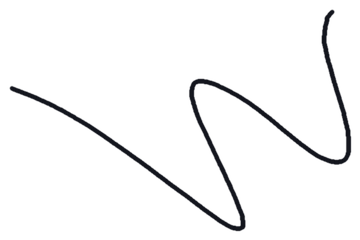
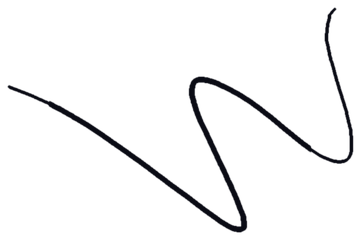
Certificates: smaller centered pen-style signature
Claude-Session: https://claude.ai/code/session_014vxs68XZesF6MG5jL5V9rF

Changed region(s): [[0.0, 0.0294, 1.0, 1.0]]

diff --git a/public/certificates/index.html b/public/certificates/index.html
@@ -153,7 +153,7 @@ function draw(ctx,s){
  ctx.moveTo(L-140,ly);ctx.lineTo(L+140,ly);ctx.moveTo(cx-85,ly);ctx.lineTo(cx+85,ly);ctx.moveTo(R-140,ly);ctx.lineTo(R+140,ly);ctx.stroke();
  const dt=document.getElementById('date').value.trim();
  if(dt){ctx.font=(isHeb(dt)?'700 20px "Frank Ruhl Libre"':'600 22px "Cormorant Garamond"');ctx.fillStyle='#0E0E0E';ctx.direction=isHeb(dt)?'rtl':'ltr';ctx.fillText(dt,cx,ly-10);ctx.direction='ltr';}
- if(sig.complete&&sig.naturalWidth){const sw=118,sh=sw*sig.naturalHeight/sig.naturalWidth;ctx.drawImage(sig,R-sw/2+10,ly-sh+4,sw,sh);}
+ if(sig.complete&&sig.naturalWidth){const sw=100,sh=sw*sig.naturalHeight/sig.naturalWidth;ctx.drawImage(sig,R-sw/2,ly-sh+3,sw,sh);}
  ctx.fillStyle='#0E0E0E';ctx.font='700 16px Cinzel';
  spaced(ctx,'LEONARDO DE OLIVEIRA',L,704,1.5,'fill');spaced(ctx,'DATE',cx,704,2,'fill');spaced(ctx,'EREZ SHARABY',R,704,1.5,'fill');
  ctx.fillStyle='#8E1219';ctx.font='italic 600 16px "Cormorant Garamond"';ctx.fillText('Head of Organization',R,726);ctx.fillText('Instructor',L,726);
